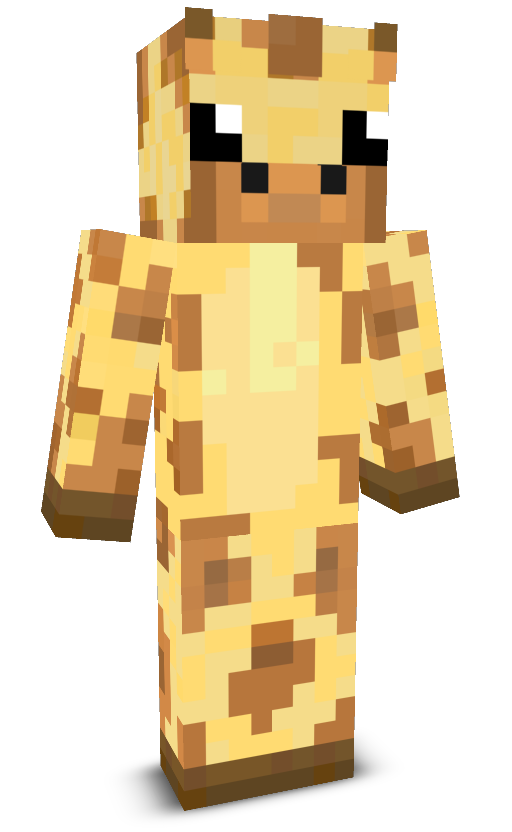
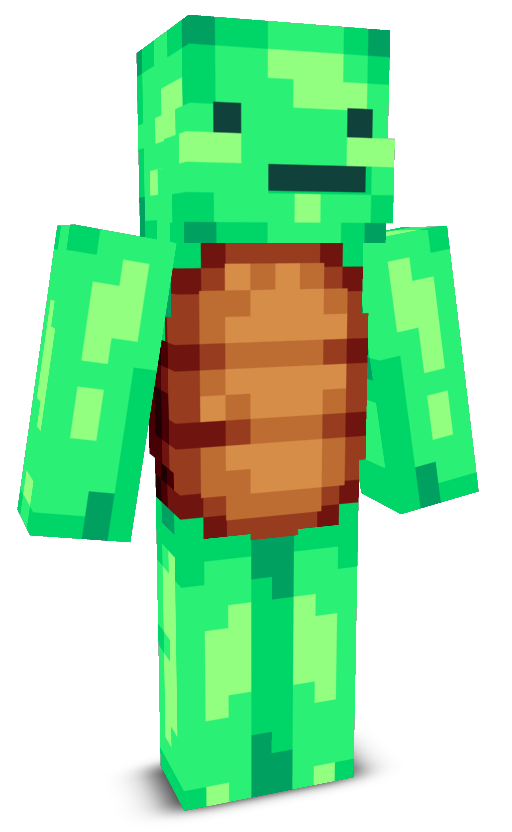
MORE ZOO

diff --git a/src/app.js b/src/app.js
@@ -23,6 +23,7 @@ async function main(){
     const { MongoClient } = require('mongodb');
     const helper = require('./helper');
     const constants = require('./constants');
+    const seedrandom = require('seedrandom');
 
     const mongo = new MongoClient(dbUrl, { useUnifiedTopology: true });
     await mongo.connect();
@@ -71,6 +72,7 @@ async function main(){
         const topProfiles = await db.collection('profileViews').find().sort({ total: -1 }).limit(10).toArray();
 
         output.top_profiles = topProfiles;
+
         output.zoo = constants.zoo;
 
         return output;
@@ -82,22 +84,22 @@ async function main(){
         let paramPlayer = req.params.player.toLowerCase().replace(/\-/g, '');
         let paramProfile = req.params.profile ? req.params.profile.toLowerCase() : null;
 
-        let char;
+        let animal;
 
-        for(const zooChar in constants.zoo)
-            if(constants.zoo[zooChar].toLowerCase() == paramPlayer)
-                char = zooChar;
-        if(char){
+        for(const zooAnimal in constants.zoo)
+            if(paramPlayer.toLowerCase() == constants.zoo[zooAnimal].toLowerCase())
+                animal = parseInt(zooAnimal);
+
+        if(animal){
             let zooProfile = await db
-            .collection('profiles')
+            .collection('usernames')
             .aggregate([
-                { $match: { uuid: { $regex: new RegExp(`^${char}`) } } },
+                { $match: { animal: animal } },
                 { $sample: { size: 1 } }
             ])
             .next();
 
             paramPlayer = zooProfile.uuid;
-            paramProfile = zooProfile.profile_id;
         }
 
         let playerUsername = paramPlayer;
@@ -156,6 +158,7 @@ async function main(){
                     player: playerUsername,
                     extra: await getExtra(),
                     helper,
+                    seedrandom,
                     page: 'index'
                 });
 
@@ -168,6 +171,7 @@ async function main(){
                     player: playerUsername,
                     extra: await getExtra(),
                     helper,
+                    seedrandom,
                     page: 'index'
                 });
 
@@ -180,6 +184,7 @@ async function main(){
                     player: playerUsername,
                     extra: await getExtra(),
                     helper,
+                    seedrandom,
                     page: 'index'
                 });
 
@@ -192,6 +197,7 @@ async function main(){
                     player: playerUsername,
                     extra: await getExtra(),
                     helper,
+                    seedrandom,
                     page: 'index'
                 });
 
@@ -223,6 +229,7 @@ async function main(){
                         player: playerUsername,
                         extra: await getExtra(),
                         helper,
+                        seedrandom,
                         page: 'index'
                     });
 
@@ -295,6 +302,7 @@ async function main(){
                             player: playerUsername,
                             extra: await getExtra(),
                             helper,
+                            seedrandom,
                             page: 'index'
                         });
 
@@ -313,6 +321,7 @@ async function main(){
                     player: playerUsername,
                     extra: await getExtra(),
                     helper,
+                    seedrandom,
                     page: 'index'
                 });
 
@@ -342,6 +351,7 @@ async function main(){
                     player: playerUsername,
                     extra: await getExtra(),
                     helper,
+                    seedrandom,
                     page: 'index'
                 });
 
@@ -406,6 +416,10 @@ async function main(){
             calculated.minion_slots = lib.getMinionSlots(calculated.minions);
             calculated.pets = await lib.getPets(userProfile);
             calculated.collections = await lib.getCollections(userProfile);
+
+            const randomAnimal = new seedrandom(data.player.uuid);
+
+            calculated.animal = Math.floor(randomAnimal() * Math.floor(Object.keys(constants.zoo).length));
 
             calculated.fishing = {
                 total: userProfile.stats.items_fished || 0,
@@ -489,6 +503,7 @@ async function main(){
                 player: playerUsername,
                 extra: await getExtra(),
                 helper,
+                seedrandom,
                 page: 'index'
             });
 
@@ -562,7 +577,7 @@ async function main(){
     });
 
     app.get('/', async (req, res, next) => {
-        res.render('index', { error: null, player: null, extra: await getExtra(), helper, page: 'index' });
+        res.render('index', { error: null, player: null, extra: await getExtra(), helper, seedrandom, page: 'index' });
     });
 
     app.get('*', async (req, res, next) => {

diff --git a/src/constants.js b/src/constants.js
@@ -1885,19 +1885,32 @@ module.exports = {
     },
 
     zoo: {
-        '0': 'Giraffe',
-        '1': 'Elephant',
-        '2': 'Panda',
-        '3': 'Duck',
-        '4': 'Koala',
-        '5': 'Dog',
-        '6': 'Fox',
-        '7': 'Bear',
-        '8': 'Penguin',
-        'b': 'Pig',
-        'c': 'Fish',
-        'd': 'Tiger',
-        'e': 'Parrot',
-        'f': 'Sloth'
+        0: 'Turtle',
+        1: 'Panda',
+        2: 'Elephant',
+        3: 'Duck',
+        4: 'Whale',
+        5: 'Dog',
+        6: 'Fox',
+        7: 'Bear',
+        8: 'Bee',
+        9: 'Sheep',
+        10: 'Lion',
+        11: 'Tiger',
+        12: 'Fish',
+        13: 'Pig',
+        14: 'Parrot',
+        15: 'Horse',
+        16: 'Cow',
+        17: 'Owl',
+        18: 'Chicken',
+        19: 'Wolf',
+        20: 'Cat',
+        21: 'Rabbit',
+        22: 'Sloth',
+        23: 'Giraffe',
+        24: 'Monkey',
+        25: 'Koala',
+        26: 'Penguin'
     }
 };

diff --git a/src/set-animals.js b/src/set-animals.js
@@ -1,0 +1,27 @@
+async function main(){
+    const dbUrl = 'mongodb://localhost:27017';
+    const dbName = 'sbstats';
+
+    const { MongoClient } = require('mongodb');
+    const seedrandom = require('seedrandom');
+    const axios = require('axios');
+    const credentials = require('../credentials.json');
+    const constants = require('./constants');
+    const mongo = new MongoClient(dbUrl, { useUnifiedTopology: true });
+    await mongo.connect();
+
+    const db = mongo.db(dbName);
+
+    db.collection('usernames').find().forEach(async doc => {
+        const randomAnimal = new seedrandom(doc.uuid);
+
+        const animal = Math.floor(randomAnimal() * Math.floor(Object.keys(constants.zoo).length));
+
+        await db.collection('usernames').updateOne(
+            { _id: doc._id },
+            { $set: { animal } }
+        );
+    });
+}
+
+main();
